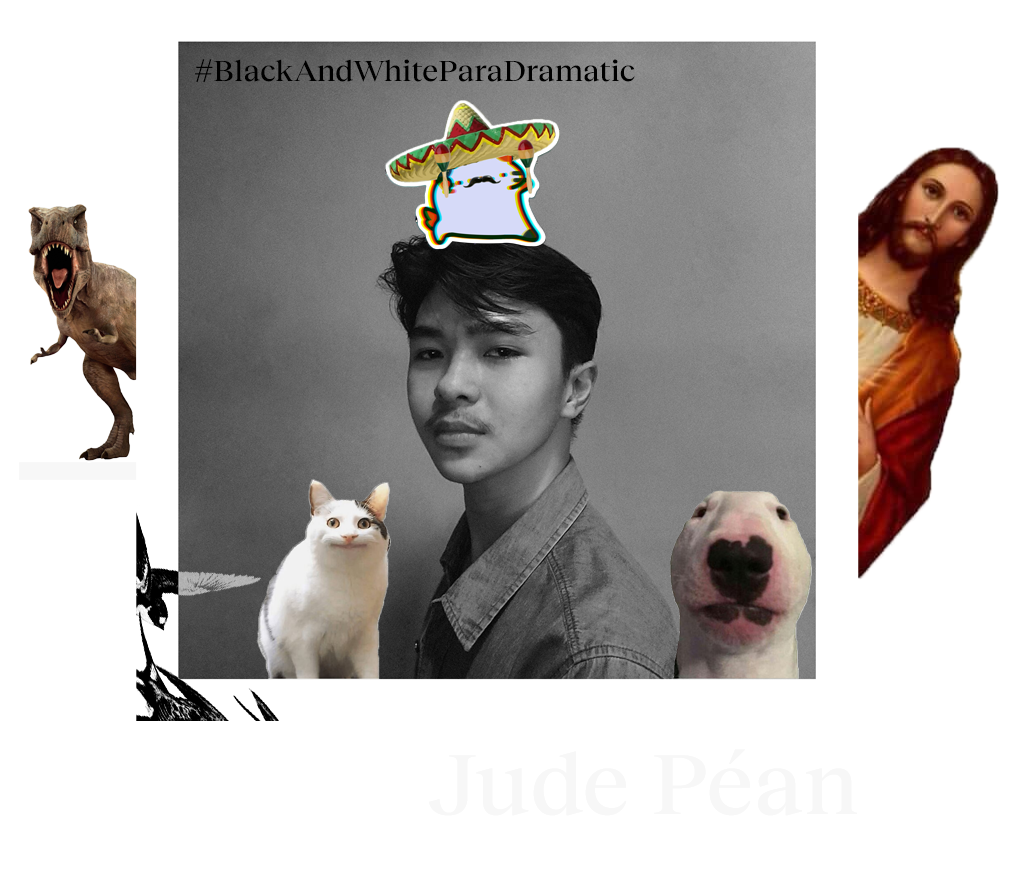
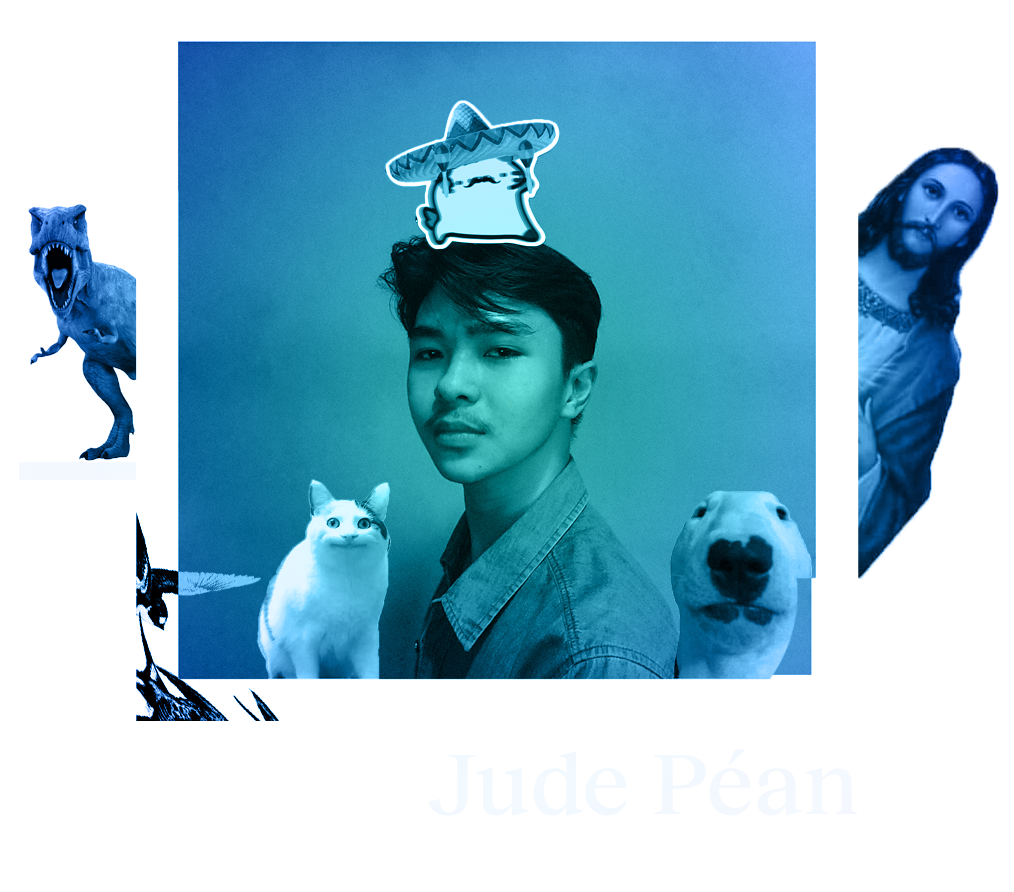
removed the hashtag in about pic

diff --git a/pages/about.html b/pages/about.html
@@ -283,7 +283,7 @@
         <div></div>
         <div></div>
       </div>
-      <img src="./img/about1.png" class="author_photo" />
+      <img src="./img/about2.png" class="author_photo" />
       <div class="section1">
         <span class="heading">About the Author</span> <br /><br />
         A curious student heavily inspired by rich design experiences, and
